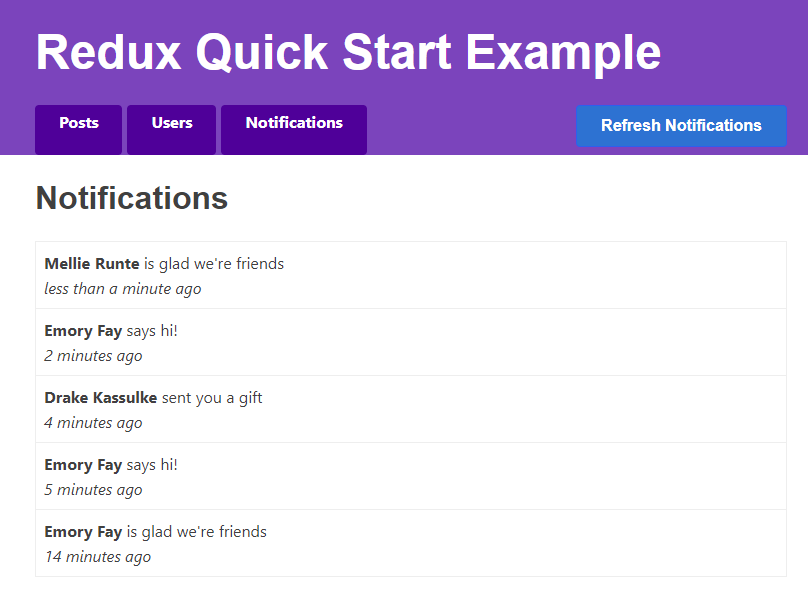
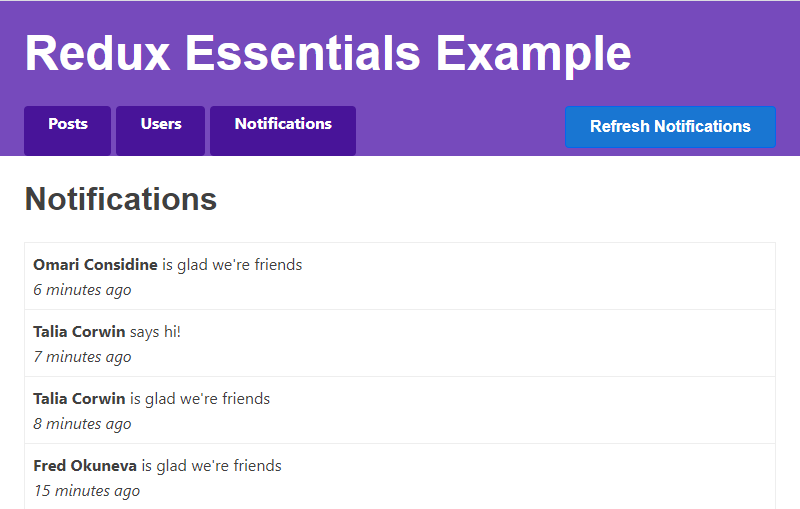
Fix example bugs with random seeds and sorted notifications

Changed region(s): [[0.0, 0.0295, 1.0, 0.9725]]

diff --git a/docs/tutorials/essentials/part-6-performance-normalization.md b/docs/tutorials/essentials/part-6-performance-normalization.md
@@ -147,7 +147,7 @@ export const fetchNotifications = createAsyncThunk(
   'notifications/fetchNotifications',
   async (_, { getState }) => {
     const allNotifications = selectAllNotifications(getState())
-    const [latestNotification] = allNotifications.slice(-1)
+    const [latestNotification] = allNotifications
     const latestTimestamp = latestNotification ? latestNotification.date : ''
     const response = await client.get(
       `/fakeApi/notifications?since=${latestTimestamp}`
@@ -163,7 +163,7 @@ const notificationsSlice = createSlice({
   extraReducers: {
     [fetchNotifications.fulfilled]: (state, action) => {
       state.push(...action.payload)
-      // Sort with newest last
+      // Sort with newest first
       state.sort((a, b) => b.date.localeCompare(a.date))
     }
   }
@@ -202,7 +202,7 @@ For more details on these arguments and how to handle canceling thunks and reque
 
 :::
 
-In this case, we know that the list of notifications is in our Redux store state, and that the latest notification should be last in the array. We can destructure the `getState` function out of the `thunkAPI` object, call it to read the state value, and use the `selectAllNotifications` selector to give us just the array of notifications. Then, to get the last item in the array, we can use `allNotifications.slice(-1)` to create a new array with just the last item, and destructure that. (It's a bit tricky, but also nicer to read than doing `allNotifications[allNotifications.length - 1]`.)
+In this case, we know that the list of notifications is in our Redux store state, and that the latest notification should be first in the array. We can destructure the `getState` function out of the `thunkAPI` object, call it to read the state value, and use the `selectAllNotifications` selector to give us just the array of notifications. Since the array of notifications is sorted newest first, we can grab the latest one using array destructuring.
 
 ### Adding the Notifications List
 
@@ -329,7 +329,7 @@ const notificationsSlice = createSlice({
       })
       // highlight-end
       state.push(...action.payload)
-      // Sort with newest last
+      // Sort with newest first
       state.sort((a, b) => b.date.localeCompare(a.date))
     }
   }

diff --git a/docs/tutorials/essentials/part-5-async-logic.md b/docs/tutorials/essentials/part-5-async-logic.md
@@ -40,7 +40,7 @@ The project also includes a small HTTP API client object that exposes `client.ge
 
 We'll use the `client` object to make HTTP calls to our in-memory fake REST API for this section.
 
-Also, the mock server has been set up to reuse the same random seed each time the page is loaded, so that it will generate the same list of fake users and fake posts. If you want to reset that, delete the `'randomTimestampSeed'` value in your browser's Local Storage and reload the page, or you can turn that off by editing `src/api/server.js` and commenting out the `setRandom(rng)` call.
+Also, the mock server has been set up to reuse the same random seed each time the page is loaded, so that it will generate the same list of fake users and fake posts. If you want to reset that, delete the `'randomTimestampSeed'` value in your browser's Local Storage and reload the page, or you can turn that off by editing `src/api/server.js` and setting `useSeededRNG` to `false`.
 
 :::info
 
